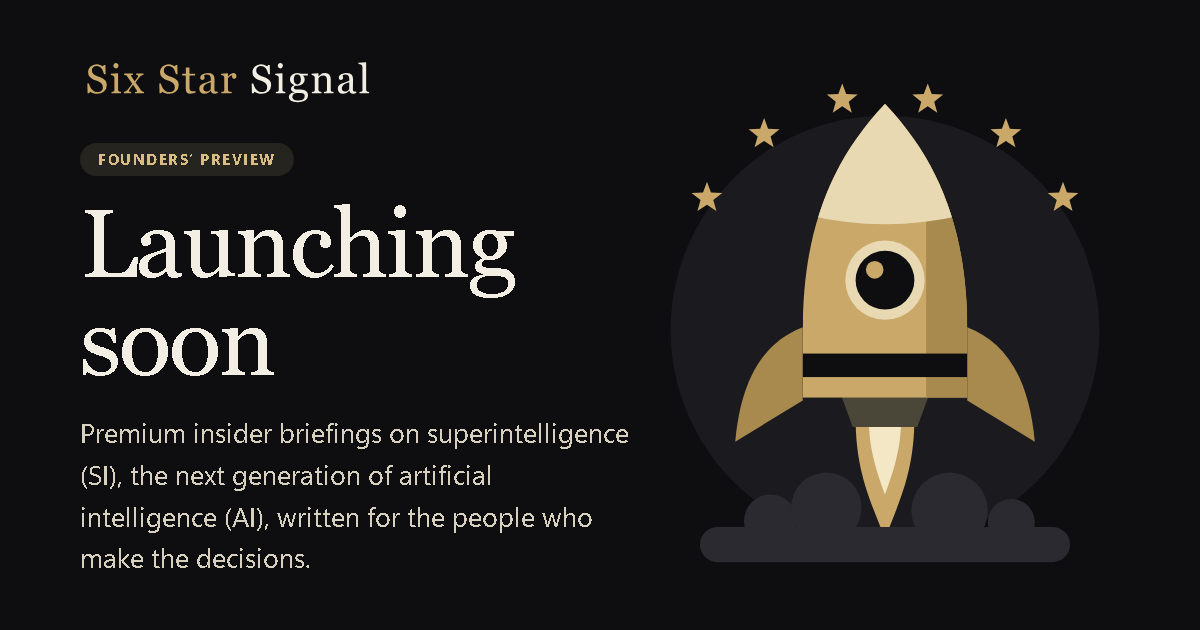
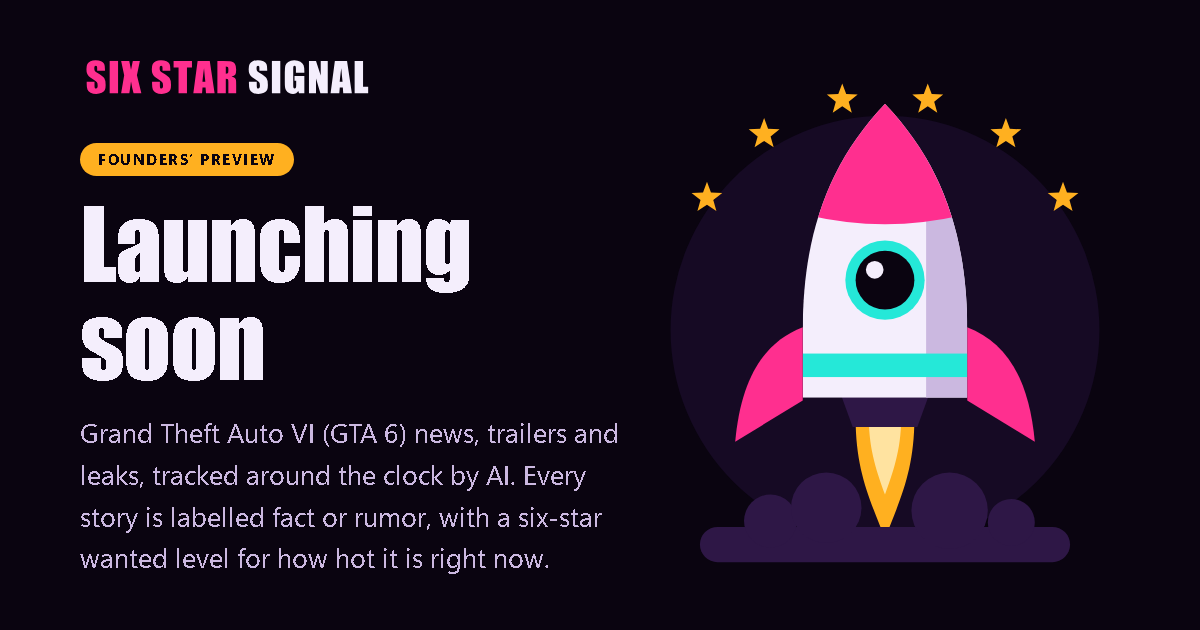
Six Star Signal = the GTA 6 site: neon launching-soon page, six-star wanted motif, fan-made disclaimer (his 10-03 18:46)

diff --git a/index.html b/index.html
@@ -4,24 +4,24 @@
 <meta charset="utf-8">
 <meta http-equiv="Content-Security-Policy" content="default-src 'none'; script-src 'self'; style-src 'self'; img-src 'self' data:; connect-src https://acp9reat3l.execute-api.us-east-1.amazonaws.com; form-action 'self'; base-uri 'none'; object-src 'none'; upgrade-insecure-requests; require-trusted-types-for 'script'; trusted-types 'none'">
 <meta name="viewport" content="width=device-width, initial-scale=1">
-<title>Six Star Signal | Superintelligence (SI) &amp; Artificial Intelligence (AI): launching soon</title>
-<meta name="description" content="Six Star Signal is launching soon: something new on superintelligence (SI), the next generation of artificial intelligence (AI), for decision-makers. Join the free preview.">
+<title>Six Star Signal | GTA 6 news tracked by Superintelligence (SI) &amp; Artificial Intelligence (AI): launching soon</title>
+<meta name="description" content="Six Star Signal is launching soon: Grand Theft Auto VI (GTA 6) news, trailers and leaks, tracked around the clock by superintelligence (SI) and artificial intelligence (AI), each labelled fact or rumor. Fan-made. Join the free preview.">
 <meta name="robots" content="index,follow">
 <link rel="canonical" href="https://sixstarsignal.com/">
-<meta name="theme-color" content="#0E0E10">
+<meta name="theme-color" content="#0A0410">
 <link rel="icon" type="image/svg+xml" href="assets/favicon.svg">
 <meta property="og:type" content="website">
 <meta property="og:site_name" content="Six Star Signal">
-<meta property="og:title" content="Six Star Signal | Superintelligence (SI) & Artificial Intelligence (AI): launching soon">
-<meta property="og:description" content="Six Star Signal is launching soon: something new on superintelligence (SI), the next generation of artificial intelligence (AI), for decision-makers. Join the free preview.">
+<meta property="og:title" content="Six Star Signal | GTA 6 news tracked by Superintelligence (SI) & Artificial Intelligence (AI): launching soon">
+<meta property="og:description" content="Six Star Signal is launching soon: Grand Theft Auto VI (GTA 6) news, trailers and leaks, tracked around the clock by superintelligence (SI) and artificial intelligence (AI), each labelled fact or rumor. Fan-made. Join the free preview.">
 <meta property="og:url" content="https://sixstarsignal.com/">
 <meta property="og:image" content="https://sixstarsignal.com/assets/og.png">
 <meta property="og:image:width" content="1200">
 <meta property="og:image:height" content="630">
 <meta property="og:image:alt" content="Six Star Signal: a flat rocket about to launch. Launching soon.">
 <meta name="twitter:card" content="summary_large_image">
-<meta name="twitter:title" content="Six Star Signal | Superintelligence (SI) & Artificial Intelligence (AI): launching soon">
-<meta name="twitter:description" content="Six Star Signal is launching soon: something new on superintelligence (SI), the next generation of artificial intelligence (AI), for decision-makers. Join the free preview.">
+<meta name="twitter:title" content="Six Star Signal | GTA 6 news tracked by Superintelligence (SI) & Artificial Intelligence (AI): launching soon">
+<meta name="twitter:description" content="Six Star Signal is launching soon: Grand Theft Auto VI (GTA 6) news, trailers and leaks, tracked around the clock by superintelligence (SI) and artificial intelligence (AI), each labelled fact or rumor. Fan-made. Join the free preview.">
 <meta name="twitter:image" content="https://sixstarsignal.com/assets/og.png">
 <link rel="stylesheet" href="assets/style.css">
 </head>
@@ -31,7 +31,7 @@
   <header>
     <!-- LOGO SLOT: the single <img> below is the only place the logo appears. To swap in the real logo, replace assets/logo.svg
          (same file name), or drop in a PNG/SVG and change src, width and height here. See README.md. -->
-    <a class="brand" href="/" aria-label="Six Star Signal, home"><img class="logo" id="logo" src="assets/logo.svg" width="188" height="38" alt="Six Star Signal"></a>
+    <a class="brand" href="/" aria-label="Six Star Signal, home"><img class="logo" id="logo" src="assets/logo.svg" width="187" height="38" alt="Six Star Signal"></a>
   </header>
   <main id="main">
     <div class="stage">
@@ -61,10 +61,10 @@
     </div>
     <div class="copy">
       <p class="pill">Founders&rsquo; Preview</p>
-      <p class="topic">Superintelligence (SI) &middot; Artificial Intelligence (AI)</p>
+      <p class="topic">Grand Theft Auto VI (GTA 6) &middot; tracked by Superintelligence (SI) &amp; Artificial Intelligence (AI)</p>
 
       <h1><span class="sr">Six Star Signal: </span>Launching soon</h1>
-      <p class="lead">Something new is coming to Six Star Signal: superintelligence (SI), the next generation of artificial intelligence (AI), made local. Join the free preview to hear first.</p>
+      <p class="lead">Grand Theft Auto VI (GTA 6) news, trailers and leaks, tracked around the clock by AI. Every story is labelled fact or rumor, with a six-star wanted level for how hot it is right now.</p>
       <form class="join" id="join" novalidate>
         <label class="lbl" for="email">Email</label>
         <div class="row">
@@ -83,7 +83,7 @@
       <p class="note">Founders&rsquo; Preview: everything here is pre-launch, including Free. We&rsquo;re still building; you&rsquo;re getting an early look.</p>
     </div>
   </main>
-  <footer><a href="https://theagentsignal.com/privacy.html" rel="noopener">Privacy</a></footer>
+  <footer><a href="https://theagentsignal.com/privacy.html" rel="noopener">Privacy</a> <span class="disc">&middot; Fan-made. Not affiliated with Rockstar Games or Take-Two Interactive.</span></footer>
 </div>
 <script src="assets/app.js"></script>
 </body>

diff --git a/assets/style.css b/assets/style.css
@@ -1,5 +1,5 @@
 /* Six Star Signal: launching soon. Palette tokens are the only per-site part (:root); everything else is the shared holding-page layout. */
-:root{--bg:#0E0E10;--stage:#1A1A1F;--ink:#F3EEE3;--ink2:#D8D0BF;--muted:#A59E90;--line:#7A7261;--field:#17171B;--btn:#C9A86A;--btnink:#0E0E10;--btnhover:#D9BC83;--link:#D9BC83;--pillbg:#26241E;--pillink:#D9BC83;--focus:#D9BC83;--err:#FF9C8A;--okbg:#17171B;--cloud:#2A2A30;--body:#C9A86A;--shade:#A98A4E;--nose:#E9D9B2;--band:#0E0E10;--fin:#A98A4E;--ring:#E9D9B2;--glass:#0E0E10;--glint:#C9A86A;--nozzle:#4A4638;--flame1:#C9A86A;--flame2:#F3E7C6;--m1:#C9A86A;--m2:#E9D9B2;--spark:#C9A86A;--accent:#C9A86A;--display:Georgia,"Iowan Old Style","Palatino Linotype",Palatino,"Times New Roman",serif;--sans:"Segoe UI Variable Text","Segoe UI",system-ui,-apple-system,"Helvetica Neue",Arial,sans-serif;color-scheme:dark}
+:root{--bg:#0A0410;--stage:#160A24;--ink:#F4EEFC;--ink2:#CBB8E0;--muted:#A08AC0;--line:#6E5590;--field:#160A24;--btn:#FF2F8F;--btnink:#0A0410;--btnhover:#FF5AA6;--link:#25E8D8;--pillbg:#FFB020;--pillink:#0A0410;--focus:#25E8D8;--err:#FF9C8A;--okbg:#160A24;--cloud:#2E1746;--body:#F4EEFC;--shade:#CBB8E0;--nose:#FF2F8F;--band:#25E8D8;--fin:#FF2F8F;--ring:#25E8D8;--glass:#0A0410;--glint:#F4EEFC;--nozzle:#2E1746;--flame1:#FFB020;--flame2:#FFE3A0;--m1:#FFB020;--m2:#25E8D8;--spark:#25E8D8;--accent:#FF2F8F;--display:Impact,Haettenschweiler,"Arial Narrow Bold","Franklin Gothic Medium",sans-serif;--sans:"Segoe UI Variable Text","Segoe UI",system-ui,-apple-system,"Helvetica Neue",Arial,sans-serif;color-scheme:dark}
 *{box-sizing:border-box}
 html{-webkit-text-size-adjust:100%}
 body{margin:0;background:var(--bg);color:var(--ink);font:400 1.0625rem/1.55 var(--sans);-webkit-font-smoothing:antialiased;text-rendering:optimizeLegibility}
